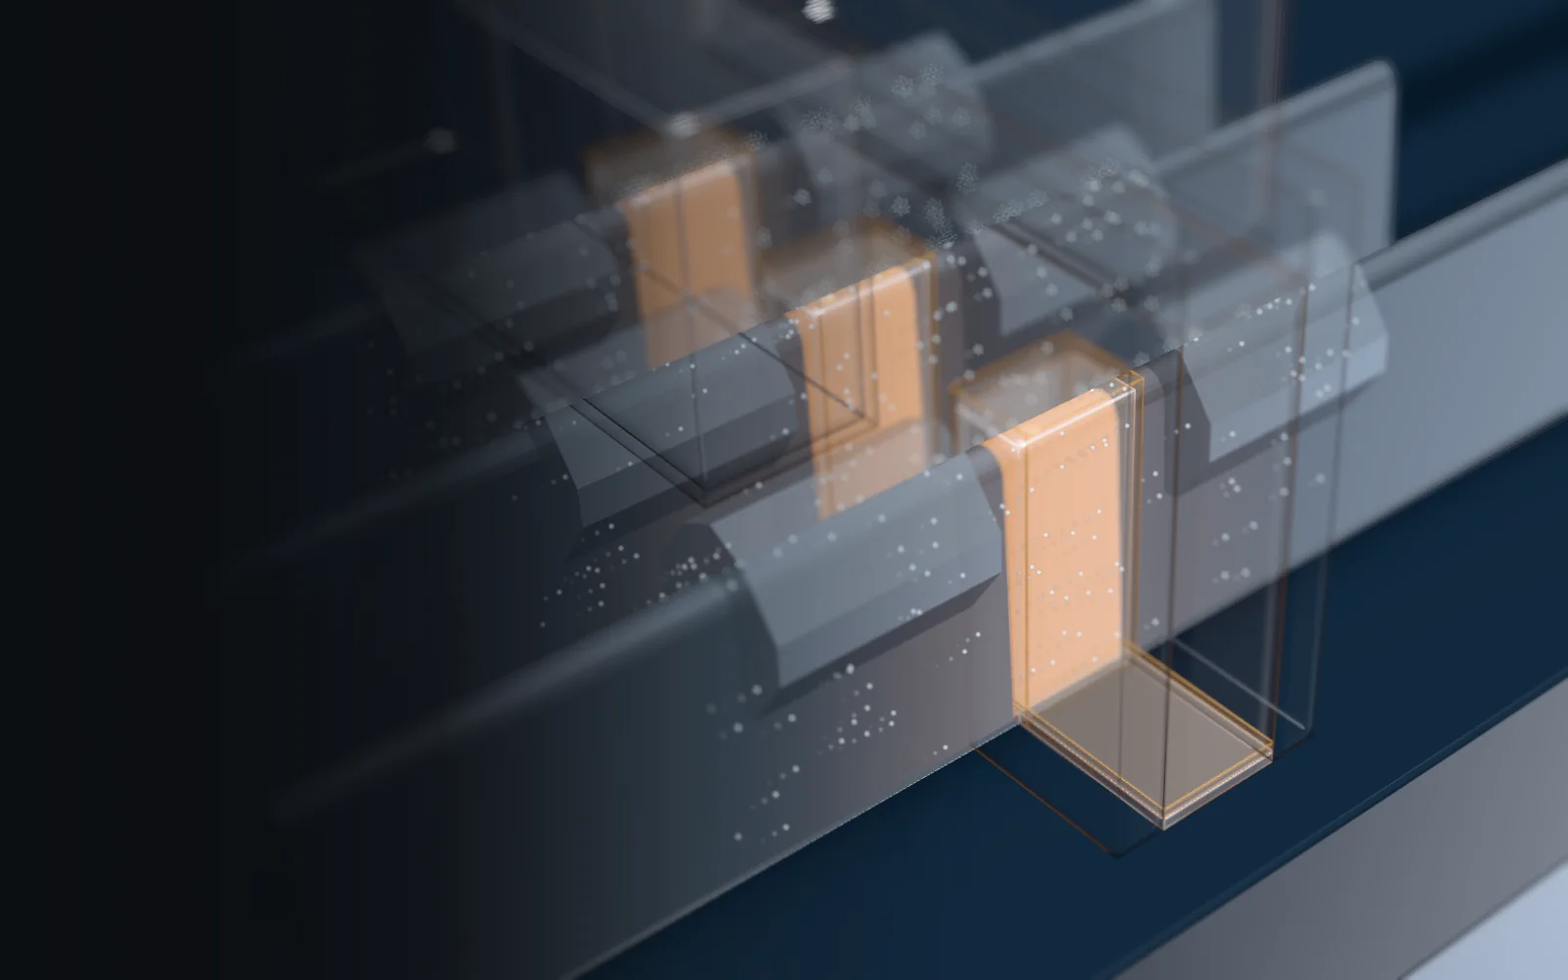
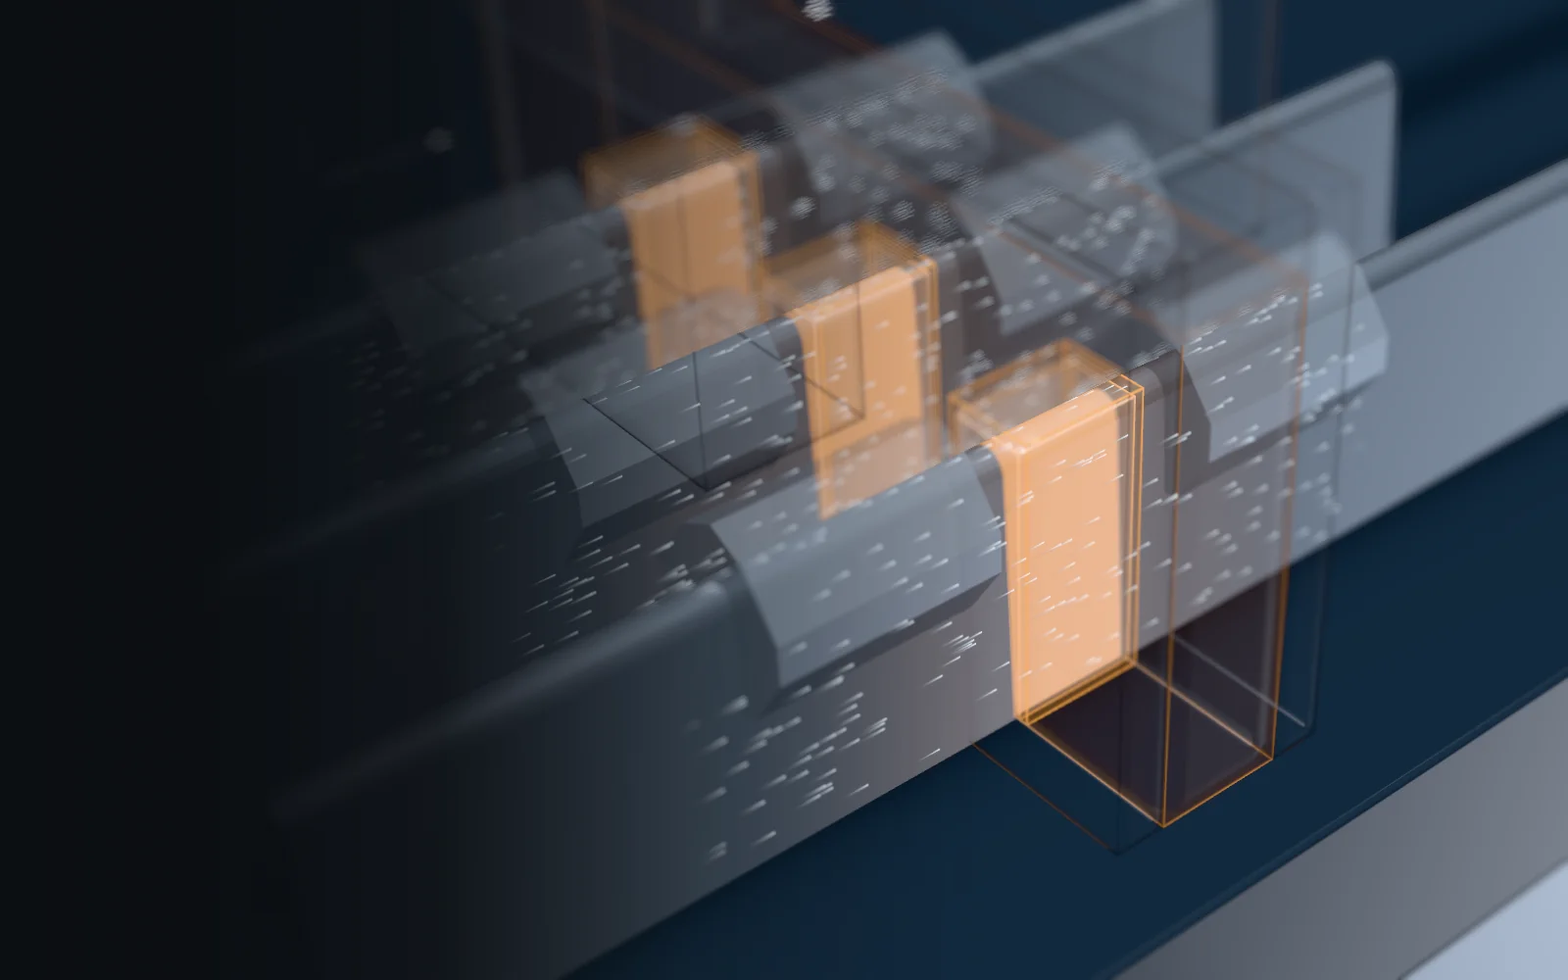
Chapter 02 fixes: stop the flickering plates, clearer glass, carriers as streaks, a visible pulse
The plates jumping low in the frame were three things at the oxide surface: the camera's near plane
at 0.3 x focus sliced the wafer slab's front in the close view and the cut edge moved with every
sway; the fin roots' tops and the glass gate stack (gate, its fin wraps and floor plates, spacers)
shared the oxide's plane and z-fought. Near plane now 0.04 x focus, the roots end 0.5 nm below the
oxide top, the glass stands 0.5 nm above it, the floor plates and contact liners are gone (node test
for both, browser check for frame-to-frame change). Darker, clearer glass; carriers are streaks on
the fin walls and tops, a bright front at the gate edge when off; the pulse runs down the contact
and through the gate, the gate glow is stronger. Labels hide with hysteresis. Chapter 03 reveal:
less sun and exposure, no clipped whites.

diff --git a/src/scripts/scenes/transistor.js b/src/scripts/scenes/transistor.js
@@ -13,8 +13,7 @@
  * Lit by the studio HDR, a cool key and a low warm light; depth of field from rendering/dof.js.
  */
 import {
-  AdditiveBlending, BoxGeometry, BufferAttribute, BufferGeometry, Color, DirectionalLight, DoubleSide, ExtrudeGeometry,
-  Mesh, MeshStandardMaterial, PerspectiveCamera, Points, Scene, ShaderMaterial, Shape, Vector2, Vector3,
+  AdditiveBlending, BoxGeometry, BufferAttribute, Color, DirectionalLight, DoubleSide, ExtrudeGeometry, InstancedBufferAttribute, InstancedBufferGeometry, Mesh, MeshStandardMaterial, PerspectiveCamera, PlaneGeometry, Scene, ShaderMaterial, Shape, Vector2,
 } from 'three';
 import { mergeGeometries } from 'three/addons/utils/BufferGeometryUtils.js';
 import { components, finHalfWidth, switchState, transistorCamera, DIM, FIN_LENGTH } from './transistor-math.js';
@@ -29,12 +28,11 @@ const SOLIDS = {
 };
 // Ghost tint, base opacity, edge strength, glow when the gate is on.
 const GHOSTS = {
-  gate: { tint: '#5d5a56', alpha: .05, edge: .55, glow: .2 },
-  tin: { tint: '#a4834f', alpha: .06, edge: .6, glow: .6 },
-  dielectric: { tint: '#c9d3dc', alpha: .05, edge: .7, glow: 1 },
-  nitride: { tint: '#4a5157', alpha: .04, edge: .35, glow: 0 },
-  tungsten: { tint: '#8d949b', alpha: .06, edge: .65, glow: 0 },
-  liner: { tint: '#555a61', alpha: .03, edge: .4, glow: 0 },
+  gate: { tint: '#2e2d2c', alpha: .05, edge: .5, glow: .45 },
+  tin: { tint: '#8a6c3f', alpha: .04, edge: .55, glow: 1.1 },
+  dielectric: { tint: '#9aa6b0', alpha: .03, edge: .55, glow: 1.4 },
+  nitride: { tint: '#262b30', alpha: .04, edge: .3, glow: 0 },
+  tungsten: { tint: '#5f666d', alpha: .05, edge: .55, glow: 0 },
 };
 const L = DIM.gateLength / 2, H = DIM.finHeight;
 
@@ -79,7 +77,7 @@ reflectedLight.indirectDiffuse *= ao; reflectedLight.directDiffuse *= ao;`);
  * the back faces are drawn, so the thickness of each part shows). Glow: the gate's state.
  */
 function ghostMaterial({ tint, alpha, edge, glow }, uniforms) {
-  const m = new MeshStandardMaterial({ color: tint, metalness: .3, roughness: .25, transparent: true, depthWrite: false, side: DoubleSide, envMapIntensity: .45 });
+  const m = new MeshStandardMaterial({ color: tint, metalness: .3, roughness: .25, transparent: true, depthWrite: false, side: DoubleSide, envMapIntensity: .25 });
   m.onBeforeCompile = shader => {
     Object.assign(shader.uniforms, uniforms, { uAlpha: { value: alpha }, uEdge: { value: edge }, uGlowK: { value: glow } });
     shader.vertexShader = shader.vertexShader.replace('#include <common>', `#include <common>\n${BOX_VERTEX_HEAD}\nattribute float aContact; varying float vContact;`)
@@ -92,12 +90,14 @@ vec3 normal = normalize((viewMatrix * vec4(nW, 0.0)).xyz) * faceDirection; vec3 
       .replace('#include <emissivemap_fragment>', `#include <emissivemap_fragment>
 float lineW = fwidth(edgeD) * 1.2 + .25;
 float edgeLine = 1.0 - smoothstep(0.0, lineW, edgeD);
-// The gate's state: a soft glow in the metal and its dielectric wrap; the pulse runs down the contact.
-float pulse = vContact > .5 && uPulse >= 0.0 ? exp(-pow((vWorld.z - mix(105.0, 85.0, uPulse)) / 2.5, 2.0)) : 0.0;
-totalEmissiveRadiance += uAmber * (uGlowK * uGate * (.35 + edgeLine) * .6 + pulse * 3.0);`)
+// The gate's state: a glow in the metal and its dielectric wrap; the pulse runs down the gate
+// contact and on down through the gate to the fins.
+float pulseZ = mix(105.0, 0.0, uPulse);
+float pulse = uPulse >= 0.0 && (vContact > .5 || uGlowK > 0.0) ? exp(-pow((vWorld.z - pulseZ) / 3.5, 2.0)) : 0.0;
+totalEmissiveRadiance += uAmber * (uGlowK * uGate * (.5 + 1.5 * edgeLine) + pulse * 4.0);`)
       .replace('#include <opaque_fragment>', `#include <opaque_fragment>
 float fres = pow(1.0 - abs(dot(normal, normalize(vViewPosition))), 3.0);
-gl_FragColor.a = clamp(uAlpha + .2 * fres + uEdge * edgeLine + uGlowK * uGate * .12 + pulse, 0.0, 1.0);`);
+gl_FragColor.a = clamp(uAlpha + .12 * fres + uEdge * edgeLine + uGlowK * uGate * .1 + pulse * .8, 0.0, 1.0);`);
   };
   m.customProgramCacheKey = () => 'finfet-ghost';
   return m;
@@ -185,49 +185,60 @@ totalEmissiveRadiance += uAmber * (sheet * 1.6 + front * 1.4 + wash);`);
 }
 
 /**
- * Carriers: particles on the fin surfaces (both side walls and the top) of the three fins. ON they
- * stream from source to drain through the channel; OFF they dam up at the gate edge, a few
- * hovering. Trails: the same particles drawn at earlier times with less alpha.
+ * Carriers: short streaks lying on the fin surfaces (both side walls and the top) of the three fins,
+ * one instanced quad each, bright at the head and fading along the tail. ON they stream from source
+ * to drain through the channel; OFF they stand in a sharp front at the gate edge, piled behind it.
  */
-function buildCarriers(lag, count) {
-  const g = new BufferGeometry();
+function buildCarriers(count) {
+  const quad = new PlaneGeometry(1, 1);
+  const g = new InstancedBufferGeometry();
+  g.index = quad.index;
+  g.setAttribute('position', quad.getAttribute('position'));
   const rand = i => ((Math.sin(i * 12.9898 + 4.1) * 43758.5453) % 1 + 1) % 1;
-  g.setAttribute('position', new BufferAttribute(new Float32Array(count * 3), 3));
-  g.setAttribute('aSeed', new BufferAttribute(Float32Array.from({ length: count * 4 }, (_, i) => rand(i + 7)), 4));
-  const points = new Points(g, new ShaderMaterial({
-    uniforms: { uTime: { value: 0 }, uStream: { value: 0 }, uScale: { value: 1 }, uLag: { value: lag }, uFade: { value: 1 } },
-    transparent: true, depthWrite: false, blending: AdditiveBlending,
+  g.setAttribute('aSeed', new InstancedBufferAttribute(Float32Array.from({ length: count * 4 }, (_, i) => rand(i + 7)), 4));
+  g.instanceCount = count;
+  const mesh = new Mesh(g, new ShaderMaterial({
+    uniforms: { uTime: { value: 0 }, uStream: { value: 0 }, uLength: { value: 7 } },
+    transparent: true, depthWrite: false, blending: AdditiveBlending, side: DoubleSide,
     vertexShader: /* glsl */`
-      attribute vec4 aSeed; uniform float uTime, uStream, uScale, uLag; varying float vAlpha;
+      attribute vec4 aSeed; uniform float uTime, uStream, uLength; varying vec2 vUv; varying float vAlpha, vGlow;
       float halfWidth(float z) { return 5.0 - 2.0 * clamp(z / ${H.toFixed(1)}, 0.0, 1.0); }
       void main() {
         float fin = floor(aSeed.x * 2.999) - 1.0;
         float q = aSeed.y; // around the fin: left wall, top, right wall
-        float t = uTime - uLag;
-        float speed = .2 + .08 * aSeed.w;
-        float xon = -60.0 + fract(aSeed.z + t * speed) * 120.0;
-        // OFF: piled up before the gate (spacer edge), denser near it, jittering; a few hover.
-        float pile = pow(aSeed.z, .6);
-        float xoff = -${(L + 8.5).toFixed(1)} - pile * pile * 22.0 + sin(t * 2.3 + aSeed.w * 40.0) * .6;
+        float speed = .16 + .06 * aSeed.w;
+        float xon = -62.0 + fract(aSeed.z + uTime * speed) * 124.0;
+        // OFF: a sharp front at the gate edge, the rest piled behind it.
+        float dam = -${(L + 8.6).toFixed(1)};
+        float xoff = dam - pow(aSeed.z, 2.2) * 34.0 + sin(uTime * 2.1 + aSeed.w * 40.0) * .25;
         float x = mix(xoff, xon, uStream);
-        float z, y, off = .7;
-        if (q < .4) { z = 2.0 + q / .4 * ${(H - 5).toFixed(1)}; y = -halfWidth(z) - off; }
-        else if (q < .6) { float a = (q - .4) / .2; z = ${(H + .7).toFixed(1)} - 1.6 * pow(2.0 * a - 1.0, 2.0); y = mix(-halfWidth(${H.toFixed(1)}), halfWidth(${H.toFixed(1)}), a); }
-        else { z = 2.0 + (1.0 - q) / .4 * ${(H - 5).toFixed(1)}; y = halfWidth(z) + off; }
-        vec3 p = vec3(x, fin * ${DIM.finPitch.toFixed(1)} + y, z);
-        vAlpha = smoothstep(-60.0, -54.0, x) * (1.0 - smoothstep(54.0, 60.0, x)) * exp(-uLag * 9.0);
-        vec4 mv = modelViewMatrix * vec4(p, 1.0);
-        gl_Position = projectionMatrix * mv;
-        gl_PointSize = max(1.5, 1.1 * uScale / -mv.z);
+        float len = mix(2.2, uLength, uStream);
+        vGlow = mix(1.8, 1.0, uStream);
+        vec3 p, across;
+        float off = .45;
+        if (q < .42) { float z = 2.0 + q / .42 * ${(H - 5).toFixed(1)}; p = vec3(x, -halfWidth(z) - off, z); across = vec3(0.0, 0.0, 1.0); }
+        else if (q < .58) { float a = (q - .42) / .16; p = vec3(x, mix(-2.4, 2.4, a), ${(H + .35).toFixed(1)}); across = vec3(0.0, 1.0, 0.0); }
+        else { float z = 2.0 + (1.0 - q) / .42 * ${(H - 5).toFixed(1)}; p = vec3(x, halfWidth(z) + off, z); across = vec3(0.0, 0.0, 1.0); }
+        p.y += fin * ${DIM.finPitch.toFixed(1)};
+        vUv = position.xy + .5;
+        // The quad: the head at x, the tail behind it along the fin, .45 nm wide on the surface.
+        vec3 world = p + vec3(-(1.0 - vUv.x) * len, 0.0, 0.0) + across * position.y * .45;
+        vAlpha = smoothstep(-62.0, -55.0, x) * (1.0 - smoothstep(54.0, 62.0, x));
+        gl_Position = projectionMatrix * modelViewMatrix * vec4(world, 1.0);
       }`,
     fragmentShader: /* glsl */`
-      varying float vAlpha; uniform float uFade;
-      void main() { float r = length(gl_PointCoord - .5) * 2.0; float a = (1.0 - smoothstep(.1, 1.0, r)) * vAlpha * uFade;
-        gl_FragColor = vec4(vec3(.75, .9, 1.0) * a * 1.6, a); }`,
+      varying vec2 vUv; varying float vAlpha, vGlow;
+      void main() {
+        // clamp: interpolation can leave vUv a hair below 0, and pow() of a negative is NaN (black).
+        vec2 uv = clamp(vUv, 0.0, 1.0);
+        float a = pow(uv.x, 2.2) * (1.0 - pow(abs(uv.y - .5) * 2.0, 2.0)) * vAlpha;
+        gl_FragColor = vec4(vec3(.78, .9, 1.0) * a * 2.2 * vGlow, a);
+      }`,
   }));
-  points.frustumCulled = false;
-  points.renderOrder = 30;
-  return points;
+  mesh.frustumCulled = false;
+  mesh.renderOrder = 30;
+  quad.dispose();
+  return mesh;
 }
 
 export async function createTransistor({ renderer, environment, dof, trails = 4 }) {
@@ -251,7 +262,7 @@ export async function createTransistor({ renderer, environment, dof, trails = 4 
   const epiMat = new MeshStandardMaterial({ color: '#8d98a3', metalness: .5, roughness: .22, transparent: true, opacity: .5, depthWrite: false, flatShading: true, envMapIntensity: .7 });
   add(mergeGeometries(epis.map(e => extrudeX(epiProfile(), e.center[0] - e.half[0], e.center[0] + e.half[0], e.center[1]))), epiMat, 5);
   // Ghosts, inner first so the outer glass composites over them.
-  ['dielectric', 'tin', 'gate', 'nitride', 'liner', 'tungsten'].forEach((kind, i) =>
+  ['dielectric', 'tin', 'gate', 'nitride', 'tungsten'].forEach((kind, i) =>
     add(mergedBoxes(parts.filter(c => c.kind === kind)), ghostMaterial(GHOSTS[kind], uniforms), 10 + i));
 
   const key = new DirectionalLight('#e6eef8', .9);
@@ -262,7 +273,7 @@ export async function createTransistor({ renderer, environment, dof, trails = 4 
   let carriers = [];
   const setTrails = n => {
     for (const c of carriers) { scene.remove(c); c.geometry.dispose(); c.material.dispose(); }
-    carriers = Array.from({ length: 1 + n }, (_, k) => buildCarriers(k * .07, 700));
+    carriers = [buildCarriers(n >= 4 ? 1400 : 800)];
     scene.add(...carriers);
   };
   setTrails(trails);
@@ -274,8 +285,8 @@ export async function createTransistor({ renderer, environment, dof, trails = 4 
 
   return {
     resize(width, height, nextFraming) { size = [width, height]; framing = nextFraming; },
-    /** Fewer trail copies on a weaker profile (fill rate). */
-    setTrails(n) { if (n !== carriers.length - 1) setTrails(n); },
+    /** Fewer carriers on a weaker profile (fill rate). */
+    setTrails(n) { if ((n >= 4 ? 1400 : 800) !== carriers[0].geometry.instanceCount) setTrails(n); },
     /**
      * state: { progress, time (ambient s), power: { on, s } (target state and the progress of its
      * switching sequence), fade (opacity over what the canvas holds) }.
@@ -284,7 +295,9 @@ export async function createTransistor({ renderer, environment, dof, trails = 4 
       const cam = transistorCamera(progress, framing, time * 2 * Math.PI / 80);
       const focus = Math.hypot(...cam.position.map((v, i) => v - cam.target[i]));
       camera.fov = cam.fov; camera.aspect = size[0] / size[1];
-      camera.near = focus * .3; camera.far = focus * 3;
+      // The near plane must stay clear of the wafer slab: at .3 x focus it sliced through the slab's
+      // front in the close view and the cut edge jumped with every sway of the camera.
+      camera.near = focus * .04; camera.far = focus * 6;
       camera.updateProjectionMatrix();
       camera.projectionMatrix.elements[8] = -cam.shift[0];
       camera.projectionMatrix.elements[9] = -cam.shift[1];
@@ -294,11 +307,7 @@ export async function createTransistor({ renderer, environment, dof, trails = 4 
       const st = switchState(power.on, power.s);
       uniforms.uGate.value = st.gate; uniforms.uPulse.value = st.pulse;
       uniforms.uChannel.value.set(...st.channel); uniforms.uStream.value = st.stream;
-      const height = renderer.getDrawingBufferSize(new Vector2()).y;
-      for (const c of carriers) {
-        const cu = c.material.uniforms;
-        cu.uTime.value = time; cu.uStream.value = st.stream; cu.uScale.value = height / 2 / Math.tan(cam.fov * Math.PI / 360);
-      }
+      for (const c of carriers) { const cu = c.material.uniforms; cu.uTime.value = time; cu.uStream.value = st.stream; }
       renderer.toneMappingExposure = .9;
       dof.render(scene, camera, { focus, aperture: APERTURE, opacity: fade });
       return fade > .6 ? { ...scaleBar(size[1], cam.fov, focus, 90), scene: 'transistor' } : null;

diff --git a/src/scripts/scenes/transistor-math.js b/src/scripts/scenes/transistor-math.js
@@ -14,6 +14,8 @@ export const DIM = { finPitch: 42, finHeight: 42, finWidth: 8, gatePitch: 70, ga
 const FINS = [-1, 0, 1].map(i => i * DIM.finPitch);
 export const FRONT_FIN = FINS[0];
 export const FIN_LENGTH = 220;
+/** Gap between the glass parts and the isolation top (nm), see components(). */
+export const GHOST_LIFT = .5;
 
 /**
  * Fin cross-section used for the drawn fin (nm, y across, z up): tapered from 10 nm at the base to
@@ -35,28 +37,31 @@ export function components() {
   box('oxide', [0, 115, -20], [260, 205, 20], { round: 1 });
   for (const y of FINS) {
     box('silicon', [0, y, H / 2], [FIN_LENGTH / 2, W, H / 2], { fin: true, shape: 'fin' });
-    box('silicon', [0, y, -20], [FIN_LENGTH / 2, W + 2, 20], { round: 0 });
+    // The fin's root inside the isolation; its top stays below the oxide top (a coplanar strip
+    // along each fin base z-fought with the oxide and flickered).
+    box('silicon', [0, y, -20.25], [FIN_LENGTH / 2, W + 1, 19.75], { round: 0, root: true });
   }
   // One gate (real layouts repeat gates every 70 nm; the neighbours are left out so the device
   // reads as one object: source, gate, drain). Around each fin: high-k dielectric, then the
   // work-function metal (TiN), then the fill metal; a nitride cap on top; nitride spacers.
+  // Glass parts stand GHOST_LIFT above the isolation instead of sharing its plane: coplanar (and
+  // intersecting) transparent faces on the opaque oxide z-fought and flickered as the camera moved.
+  const lift = GHOST_LIFT, span = (z0, z1) => [(z0 + z1) / 2, (z1 - z0) / 2];
   for (const y of FINS) {
-    box('dielectric', [0, y, H / 2 + 1], [L, W + 2, H / 2 + 2], { round: 2, ghost: true });
-    box('tin', [0, y, H / 2 + 2], [L, W + 3.5, H / 2 + 3.5], { round: 3, ghost: true });
+    const [dz, dh] = span(lift, H + 2), [tz, th] = span(lift, H + 4);
+    box('dielectric', [0, y, dz], [L, W + 2, dh], { round: 2, ghost: true });
+    box('tin', [0, y, tz], [L, W + 3.5, th], { round: 3, ghost: true });
   }
-  box('dielectric', [0, 0, 1], [L, 76, 1], { round: 0, ghost: true });
-  box('tin', [0, 0, 2.75], [L, 76, .75], { round: 0, ghost: true });
-  box('gate', [0, 0, 37], [L, 76, 37], { round: 4, ghost: true, gate: true });
+  const [gz, gh] = span(lift, 74);
+  box('gate', [0, 0, gz], [L, 76, gh], { round: 4, ghost: true, gate: true });
   box('nitride', [0, 0, 79], [L, 76, 5], { round: 2, ghost: true });
-  for (const s of [-1, 1]) box('nitride', [s * (L + 4), 0, 42], [4, 76, 42], { round: 2, ghost: true });
+  const [sz, sh] = span(lift, 84);
+  for (const s of [-1, 1]) box('nitride', [s * (L + 4), 0, sz], [4, 76, sh], { round: 2, ghost: true });
   // Raised source/drain: faceted (diamond-profile) epitaxy around each fin between the spacers.
   for (const sx of [-1, 1]) for (const y of FINS) box('epi', [sx * 35, y, 36], [17, 9, 9], { angle: Math.PI / 4, shape: 'epi' });
   // Trench contacts on the source and drain, with a liner, and the gate contact.
-  for (const sx of [-1, 1]) {
-    box('liner', [sx * 35, 16, 72], [13.2, 51.2, 25.2], { round: 3, ghost: true });
-    box('tungsten', [sx * 35, 16, 72], [12, 50, 24], { round: 3, ghost: true });
-  }
-  box('liner', [0, 40, 95], [8.2, 7.2, 11.2], { round: 2, ghost: true });
+  // (Their barrier liners are thinner than a pixel at these views and are left out.)
+  for (const sx of [-1, 1]) box('tungsten', [sx * 35, 16, 72], [12, 50, 24], { round: 3, ghost: true });
   box('tungsten', [0, 40, 95], [7, 6, 10], { round: 2, ghost: true, gateContact: true });
   return out;
 }

diff --git a/src/scripts/app.js b/src/scripts/app.js
@@ -168,13 +168,15 @@ function placeLabels() {
     if (framing === 'mobile' && !MOBILE_LABELS.includes(key)) continue;
     // A part out of the frame (the camera moves in close mid-chapter) loses its label.
     const fp = project(point, cam, W / H);
-    if (!fp || fp[0] < .03 || fp[0] > .97 || fp[1] < .1 || fp[1] > .9) continue;
+    const li = labelItems.find(l => l.dataset.part === key), e = li?.hidden ? .03 : 0; // hysteresis
+    if (!fp || fp[0] < .03 + e || fp[0] > .97 - e || fp[1] < .1 + e || fp[1] > .9 - e) continue;
     const [fx, fy] = fp;
     anchors[key] = [(fx * W + (box[0] - W) / 2) / box[0] * 100, (fy * H + (box[1] - H) / 2) / box[1] * 100];
   }
   const layout = labelLayout(anchors, box, framing);
   for (const li of labelItems) {
     const l = layout[li.dataset.part];
+    li.dataset.wasHidden = String(li.hidden);
     li.hidden = !l;
     if (!l) continue;
     li.style.setProperty('--px', l.x.toFixed(2)); li.style.setProperty('--py', l.y.toFixed(2));
@@ -186,8 +188,11 @@ function placeLabels() {
   for (const li of labelItems) {
     if (li.hidden) continue;
     const r = li.querySelector('span').getBoundingClientRect();
-    li.hidden = copy.some(c => r.left < c.right + 8 && c.left < r.right + 8 && r.top < c.bottom + 4 && c.top < r.bottom + 4)
-      || r.left < 4 || r.right > W - 4;
+    // Hysteresis: a hidden label comes back only with a clear margin, so the camera's sway cannot
+    // make it blink on and off at the threshold.
+    const m = li.dataset.wasHidden === 'true' ? 24 : 8;
+    li.hidden = copy.some(c => r.left < c.right + m && c.left < r.right + m && r.top < c.bottom + m / 2 && c.top < r.bottom + m / 2)
+      || r.left < m / 2 || r.right > W - m / 2;
   }
 }
 

diff --git a/src/scripts/scenes/scale.js b/src/scripts/scenes/scale.js
@@ -419,7 +419,7 @@ export async function createScale({ renderer, environment, dof, shadows = true }
         s.mesh.material = s.mesh.userData.variants[u.uGrow.value < 1 ? 1 : 0];
       }
       sunDir.copy(SUN).lerp(SUN_LOW, reveal).normalize();
-      sun.intensity = 2.6 + 8 * reveal;
+      sun.intensity = 2.6 + 4.5 * reveal;
       scene.environmentIntensity = 1.3 + .6 * reveal;
       LIGHT.uHorizonMix.value = reveal;
       sun.target.position.set(...cam.target);
@@ -428,7 +428,7 @@ export async function createScale({ renderer, environment, dof, shadows = true }
       sc.left = -r; sc.right = r; sc.top = r; sc.bottom = -r; sc.near = d * .5; sc.far = d * 9;
       sc.updateProjectionMatrix();
       sun.shadow.bias = -.0004; sun.shadow.normalBias = d * .002;
-      renderer.toneMappingExposure = 1.05 + .5 * reveal;
+      renderer.toneMappingExposure = 1.05 + .25 * reveal;
       dof.render(scene, camera, { focus: d, aperture: cam.aperture, opacity, farMax: 3.5 });
       return opacity > .6 ? { ...scaleBar(size[1], cam.fov, d, 90), scene: 'scale' } : null;
     },

diff --git a/tests/browser_smoke.py b/tests/browser_smoke.py
@@ -307,6 +307,22 @@ with sync_playwright() as p:
     check('Direct load at #materia lands on the material chapter', attr(qa, 'chapter') == '1')
     qa.close()
 
+    # Regression: nothing may flicker frame to frame in the chapter 02 close view while idle (the
+    # carriers move a little; z-fighting at the oxide and a near-plane cut once lit up whole edges).
+    import io
+    from PIL import Image, ImageChops
+    idle = browser.new_page(viewport={'width': 1440, 'height': 1000})
+    load(idle, '?scene=tranzystor&progress=0.5&quality=cinematic&power=off')
+    idle.add_style_tag(content='.part-frame,.chapter-copy,.lattice-legend{visibility:hidden!important}')
+    idle.wait_for_timeout(1200)
+    shots_ = []
+    for _ in range(4):
+        shots_.append(Image.open(io.BytesIO(idle.screenshot())).convert('L'))
+        idle.wait_for_timeout(100)
+    changed = max(sum(1 for v in ImageChops.difference(a, b).getdata() if v > 40) for a, b in zip(shots_, shots_[1:]))
+    check(f'FinFET idle: frame-to-frame change stays small ({changed} px)', changed < 2500)
+    idle.close()
+
     # Keyboard: skip link, then a chapter link with Enter.
     keys = browser.new_page(viewport={'width': 1440, 'height': 1000})
     load(keys)

diff --git a/docs/SCIENCE.md b/docs/SCIENCE.md
@@ -43,7 +43,7 @@ NIEZWERYFIKOWANE: długość bramki 20 nm (podana w streszczeniu artykułu IEDM 
 Uproszczenia:
 - Żebra są narysowane jako zwężające się ku górze (10 nm u podstawy, 8 nm w połowie wysokości, 6 nm pod zaokrąglonym wierzchołkiem); dokładny profil jest założony. Źródło i dren mają fasetowany profil („diament”) epitaksji, bramka, dystanse, nasadka i kontakty są prostopadłościanami z zaokrąglonymi krawędziami.
 - Bramka, jej warstwy, dystanse, nasadka i kontakty są pokazane jak przydymione szkło, a epitaksja jako półprzezroczysty kryształ, żeby było widać żebra i kanał. W rzeczywistości są nieprzezroczyste. Na powierzchni żebra w zbliżeniu widać umowny wzór płaszczyzn sieci krzemu (okres a = 0,543 nm).
-- Pominięto dielektryk wokół bramki i kontaktów, sąsiednie bramki oraz poziomy metalu, żeby było widać elementy. Kolory materiałów są umowne (TiN zbliżony do prawdziwej barwy, reszta rozróżniona dla czytelności). Cięcie przez bramkę jest ukośne (45°) dla czytelności kadru.
+- Pominięto dielektryk wokół bramki i kontaktów, cienkie bariery kontaktów, sąsiednie bramki oraz poziomy metalu, żeby było widać elementy. Kolory materiałów są umowne (TiN zbliżony do prawdziwej barwy, reszta rozróżniona dla czytelności). Szklane części stoją 0,5 nm nad izolacją (czysto techniczne: inaczej migotały na jej powierzchni).
 - Kanał (włączony) to świecąca cienka warstwa przy powierzchni żebra pod bramką, po trzech stronach żebra; jasność i kolor są umowne. Ciemniejszy odcień krzemu pod źródłem i drenem oznacza silne domieszkowanie schematycznie, bez prawdziwego profilu.
 - Jasne punkty ze smugami płynące po ścianach i wierzchu żeber od źródła do drenu to umowna wizualizacja przepływu nośników, nie ich liczba, wielkość, prędkość ani tor. W stanie wyłączonym gromadzą się przed bramką; prądy upływu pominięto.
 - Sekwencja przełączenia (impuls w kontakcie bramki, rozjaśnienie bramki, kanał zapalający się od źródła do drenu; przy wyłączeniu zanik od strony drenu) jest umowną choreografią, nie przebiegiem czasowym tranzystora (prawdziwe przełączenie trwa pikosekundy).
